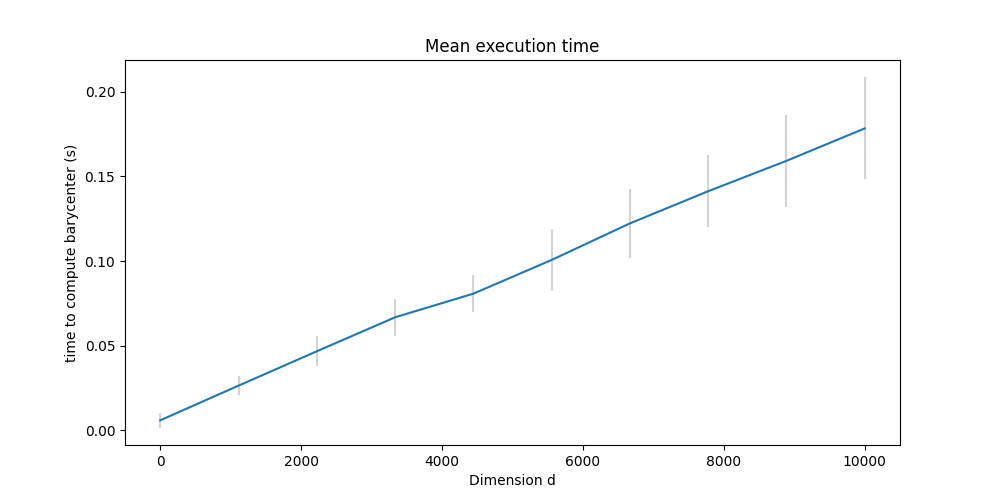
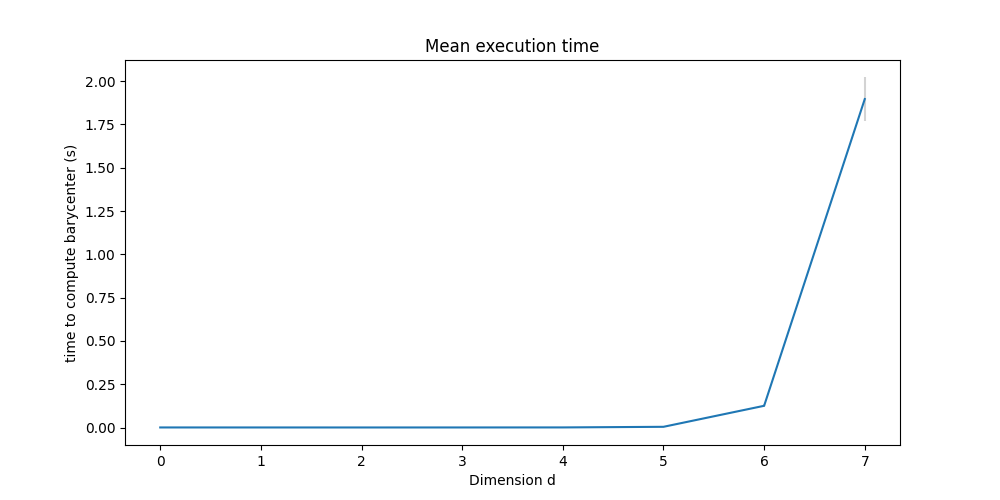
final version

diff --git a/main.py b/main.py
@@ -5,48 +5,50 @@ import math
 import matplotlib.pyplot as plt
 import time
 from tools import *
+from tqdm import tqdm
 
 if __name__ == "__main__":
 
     # Parameters
     k = 10  #input distributions
-    d = 1000 #dimension 
+    d = 4096 # original dimension 
 
-    eps = 0.001
-    thresh = 1e-5
-    n = 1000
-    max_m = 30
-    n_trials = 10
+    eps = 0.1 #epsilon for Sinkhorn
+    thresh = 1e-5 #threshold for Sinkhorn
+    n = 1000 #support size
+    max_m = 100 
+    n_trials = 20
 
     device = "cpu"
     
     support = torch.rand((n,d))/n
-    print(f"{n} points in support !")
 
     t = torch.arange(0,n)
-    Gaussian = lambda t0,sigma: torch.exp(-(t-t0)**2/(2*sigma**2))
-
-    #a = torch.randn((k,n)) # weights
+    Gaussian = lambda t0: torch.exp(-(t-t0)**2)
 
     a = torch.zeros((k,n)) # weights
     for s in range(k):
-        a[s] = Gaussian(s, 1)
+        a[s] = Gaussian(s)
+        #normalization
+        a[s] = a[s]/a[s].sum()
 
     lambdas = torch.ones(k)/k # lambdas
-
     solver = Sinkhorn(thresh, eps=eps, device=device)
 
     # To get couplings
     bary, couplings = solver.solve(lambdas, a, support, True)
-    
-    t0 = time.time()
-    bary, _ = solver.solve(lambdas, a, support, False)
     cost1 = cost(couplings, solver.C)
-    t1 = time.time()
-    print(f"bary 1 {bary}: computed in {t1-t0}s, cost={cost1}")
-    ref_time = t1-t0
 
-    
+    t = torch.arange(n)
+    plt.figure(figsize=(10,5))
+    plt.bar(t, bary, width = 1, color = "darkblue")
+    plt.title("barycenter weights")
+    plt.xlabel("j")
+    plt.ylabel("b_j")
+    plt.savefig("histo.png")
+    plt.show()
+
+
     M = torch.arange(1,max_m+1,1)
     
     costs = torch.zeros((n_trials, max_m))
@@ -55,7 +57,12 @@ if __name__ == "__main__":
 
     loss = torch.nn.MSELoss()
 
-    for trial in range(n_trials):
+    for trial in tqdm(range(n_trials)):
+        
+        t0 = time.time()
+        solver.solve(lambdas, a, support, False)
+        t1 = time.time()
+        ref_time = t1-t0
 
         for i,m in enumerate(M):
 
@@ -64,23 +71,33 @@ if __name__ == "__main__":
             bary2, couplings2 = dimsolver.solve(lambdas, a, support )
             t3 = time.time()
             cost2 = cost(couplings, dimsolver.solver.C)
-            print(f"bary 2: computed in {t3-t2}s, cost={cost2}")
 
             red_time = t3 - t2
-
-            print("cost ratio: ", cost1/cost2)
             
             costs[trial, i] = cost1/cost2
             bary_dif[trial, i] = loss(bary, bary2)
             speedup[trial, i] = ref_time/red_time
 
-
+    plt.figure(figsize=(10,5))
     plt.errorbar(M.cpu(), torch.mean(bary_dif, axis=0), torch.std(bary_dif, axis=0), ecolor='lightgray')
     plt.title("L2 difference between the barycenter weights")
+    plt.xlabel("dimension")
+    plt.ylabel("$||b_j - b_j^*||$")
+    plt.savefig("l2.png")
     plt.show()
+    
+    plt.figure(figsize=(10,5))
     plt.errorbar(M.cpu(), torch.mean(costs, axis=0), torch.std(costs, axis=0), ecolor='lightgray')
     plt.title("Cost ratio")
+    plt.xlabel("dimension")
+    plt.ylabel("cost ratio")
+    plt.savefig("ratio.png")
     plt.show()
+    
+    plt.figure(figsize=(10,5))
     plt.errorbar(M.cpu(), torch.mean(speedup, axis=0), torch.std(speedup, axis=0), ecolor='lightgray')
     plt.title("Speedup")
+    plt.xlabel("dimension")
+    plt.ylabel("speedup factor")
+    plt.savefig("speedup.png")
     plt.show()

diff --git a/dimension_curse.py b/dimension_curse.py
@@ -11,19 +11,15 @@ if __name__ == "__main__":
     k = 2  #input distributions
     d = 1000 #dimension 
 
-    #base_support = torch.arange(points_per_dim).float()
-    #support = torch.cartesian_prod(*[base_support for _ in range(d)])
-    #n = support.shape[0]
-    #support /= n
-
     eps = 0.01
     thresh = 1e-5
-    n = 1000
+    n0 = 4
     n_trials = 10
 
     device = "cpu"
 
-    D = torch.linspace(1,10000,10)
+    D = torch.arange(8)
+
 
     times = torch.zeros((n_trials, D.shape[0]))
     
@@ -32,8 +28,8 @@ if __name__ == "__main__":
         print(f"trial {trial+1}/{n_trials}")
 
         for i,d in enumerate(D):
-
             d = int(d)
+            n = n0**d
             support = torch.rand((n,d))/n
 
             a = torch.randn((k,n)) # weights

diff --git a/Sinkhorn.py b/Sinkhorn.py
@@ -23,9 +23,6 @@ class Sinkhorn:
         a = a.to(self.device)
         supp = supp.to(self.device)
 
-        # Save normalization factors
-        factors = a.sum(axis=1)
-        a = torch.div(a.T, factors).T
 
         k = a.shape[0]
         n, d = supp.shape
@@ -61,9 +58,5 @@ class Sinkhorn:
             couplings = torch.zeros_like(K)
             for s in range(k):
                 couplings[s] = torch.diag(u[s])@K[s]@torch.diag(v[s])
-
-        #Cancel normalization
-        norm_fact = (lambdas*factors).sum()
-        b = b*norm_fact
 
         return b, couplings
